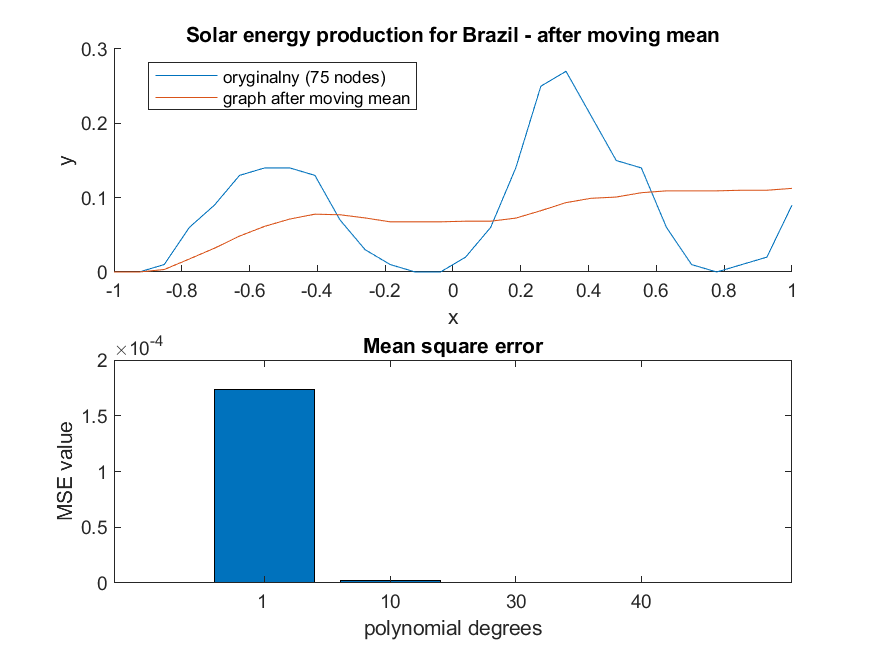
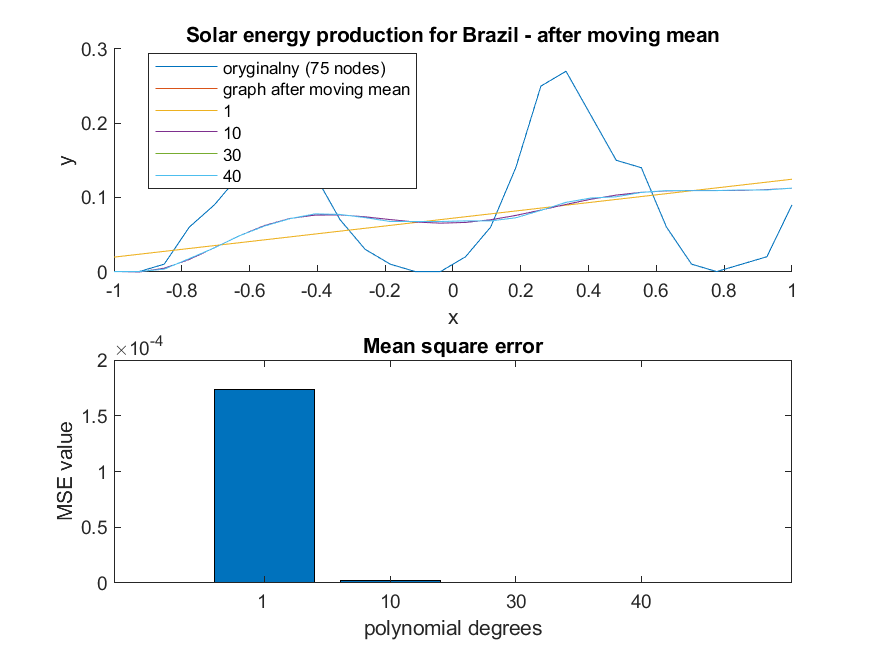
4/5 lab6 Numeryczne

diff --git a/Metody_Numeryczne_lab/lab6/zadanie5.m b/Metody_Numeryczne_lab/lab6/zadanie5.m
@@ -1,0 +1,128 @@
+function [country, source, degrees, x_coarse, x_fine, y_original, y_yearly, y_approximation, mse, msek] = zadanie5(energy)
+% Głównym celem tej funkcji jest wyznaczenie danych na potrzeby analizy dokładności aproksymacji cosinusowej.
+% 
+% energy - struktura danych wczytana z pliku energy.mat
+% country - [String] nazwa kraju
+% source  - [String] źródło energii
+% x_coarse - wartości x danych aproksymowanych
+% x_fine - wartości, w których wyznaczone zostaną wartości funkcji aproksymującej
+% y_original - dane wejściowe, czyli pomiary produkcji energii zawarte w wektorze energy.(country).(source).EnergyProduction
+% y_yearly - wektor danych rocznych
+% y_approximation - tablica komórkowa przechowująca wartości nmax funkcji aproksymujących dane roczne.
+%   - nmax = length(y_yearly)-1
+%   - y_approximation{i} stanowi aproksymację stopnia i
+%   - y_approximation{i} stanowi wartości funkcji aproksymującej w punktach x_fine
+% mse - wektor mający nmax wierszy: mse(i) zawiera wartość błędu średniokwadratowego obliczonego dla aproksymacji stopnia i.
+%   - mse liczony jest dla aproksymacji wyznaczonej dla wektora x_coarse
+% msek - wektor mający nmax wierszy: msek zawiera wartości błędów różnicowych zdefiniowanych w treści zadania 5
+%   - msek(i) porównuj aproksymacje wyznaczone dla i-tego oraz (i+1) stopnia wielomianu
+%   - msek liczony jest dla aproksymacji wyznaczonych dla wektora x_fine
+
+country = 'China';
+source = 'Wind';
+degrees = [1, 2, 3, 4];
+x_coarse = [];
+x_fine = [];
+y_original = [];
+y_yearly = [];
+y_approximation = [];
+mse = [];
+msek = [];
+
+% Sprawdzenie dostępności danych
+if isfield(energy, country) && isfield(energy.(country), source)
+    % Przygotowanie danych do aproksymacji
+    dates = energy.(country).(source).Dates;
+    y_original = energy.(country).(source).EnergyProduction;
+    y_original_mean = movmean(y_original, [11, 0]);
+
+    % Obliczenie danych rocznych
+    n_years = floor(length(y_original) / 12);
+    y_cut = y_original(end-12*n_years+1:end);
+    y4sum = reshape(y_cut, [12 n_years]);
+    y_yearly = sum(y4sum, 1)';
+
+    % Przygotowanie danych do aproksymacji
+    N = length(y_yearly);
+    P = (N-1)*8+1; % liczba wartości funkcji aproksymującej
+    x_coarse = linspace(0, 1, N)';
+    x_fine = linspace(0, 1, P)';
+
+    for i = 1:length(degrees)
+        X = dct2_custom(y_yearly, N);
+        y_approximation{i} = idct2_custom(X, degrees(i), N, P);
+        y_approximation_coarse = idct2_custom(X, degrees(i), N, N);
+        
+        squared_errors = (y_approximation_coarse - y_yearly).^2;
+        mse(i) = mean(squared_errors);
+        if i > 1
+            squared_errors = (y_last - y_approximation{i}).^2;
+            msek(i-1) = mean(squared_errors);
+        end    
+        y_last = y_approximation{i};
+    end
+    mse = mse';
+    msek = msek';
+else
+    disp(['Dane dla (country=', country, ') oraz (source=', source, ') nie są dostępne.']);
+end
+
+subplot(3, 1, 1);
+hold on;
+plot(x_coarse, y_yearly);
+
+for i = 1:length(degrees)
+    plot(x_fine, y_approximation{i});
+end
+title('');
+xlabel('x');
+ylabel('y');
+legend('original', '1', '2', '3', '4', 'Location', 'best');
+hold off
+
+subplot(3, 1, 2);
+semilogy(1:length(degrees), mse);
+title('Mean square error');  
+xlabel('polynomial degree');
+ylabel('MSE value');
+
+subplot(3, 1, 3);
+semilogy(1:length(msek), msek);
+title('Differential error');  
+xlabel('polynomial degree');
+ylabel('DE value');
+
+print -dpng zadanie5.png 
+end
+
+function X = dct2_custom(x, kmax)
+% Wyznacza kmax pierwszych współczynników DCT-2 dla wektora wejściowego x.
+    N = length(x);
+    X = zeros(kmax, 1);
+    c2 = sqrt(2/N);
+    c3 = pi/2/N;
+    nn = (1:N)';
+
+    X(1) = sqrt(1/N) * sum(x(nn));
+    for k = 2:kmax
+        X(k) = c2 * sum(x(nn) .* cos(c3 * (2*(nn-1)+1) * (k-1)));
+    end
+end
+
+function x = idct2_custom(X, kmax, N, P)
+% Wyznacza wartości aproksymacji cosinusowej x.
+% X - współczynniki DCT
+% kmax - liczba współczynników DCT zastosowanych do wyznaczenia wektora x
+% N - liczba danych dla których została wyznaczona macierz X
+% P - długość zwracanego wektora x (liczba wartości funkcji aproksymującej w przedziale [0,1])
+    x = zeros(P, 1);
+    kk = (2:kmax)';
+    c1 = sqrt(1/N);
+    c2 = sqrt(2/N);
+    c3 = pi*(N - 1)/(2*N*(P - 1));
+    c4 = -(pi*(N - P))/(2*N*(P - 1));
+
+    for n = 1:P
+        x(n) = c1 * X(1) + c2 * sum(X(kk) .* cos((c3*(2*(n-1)+1)+c4) * (kk-1)));
+    end
+end

diff --git a/Metody_Numeryczne_lab/lab6/zadanie4.m b/Metody_Numeryczne_lab/lab6/zadanie4.m
@@ -1,0 +1,118 @@
+function [country, source, degrees, x_coarse, x_fine, y_original, y_yearly, y_approximation, mse, msek] = zadanie4(energy)
+% Głównym celem tej funkcji jest wyznaczenie danych na potrzeby analizy dokładności aproksymacji wielomianowej.
+% 
+% energy - struktura danych wczytana z pliku energy.mat
+% country - [String] nazwa kraju
+% source  - [String] źródło energii
+% x_coarse - wartości x danych aproksymowanych
+% x_fine - wartości, w których wyznaczone zostaną wartości funkcji aproksymującej
+% y_original - dane wejściowe, czyli pomiary produkcji energii zawarte w wektorze energy.(country).(source).EnergyProduction
+% y_yearly - wektor danych rocznych
+% y_approximation - tablica komórkowa przechowująca wartości nmax funkcji aproksymujących dane roczne.
+%   - nmax = length(y_yearly)-1
+%   - y_approximation{1,i} stanowi aproksymację stopnia i
+%   - y_approximation{1,i} stanowi wartości funkcji aproksymującej w punktach x_fine
+% mse - wektor mający nmax wierszy: mse(i) zawiera wartość błędu średniokwadratowego obliczonego dla aproksymacji stopnia i.
+%   - mse liczony jest dla aproksymacji wyznaczonej dla wektora x_coarse
+% msek - wektor mający (nmax-1) wierszy: msek zawiera wartości błędów różnicowych zdefiniowanych w treści zadania 4
+%   - msek(i) porównuj aproksymacje wyznaczone dla i-tego oraz (i+1) stopnia wielomianu
+%   - msek liczony jest dla aproksymacji wyznaczonych dla wektora x_fine
+
+country = 'Brazil';
+source = 'Wind';
+degrees = [1,2,3,4];
+x_coarse = [];
+x_fine = [];
+y_original = [];
+y_yearly = [];
+y_approximation = [];
+mse = [];
+msek = [];
+
+% Sprawdzenie dostępności danych
+if isfield(energy, country) && isfield(energy.(country), source)
+    % Przygotowanie danych do aproksymacji
+    dates = energy.(country).(source).Dates;
+    y_original = energy.(country).(source).EnergyProduction;
+
+    % Obliczenie danych rocznych
+    n_years = floor(length(y_original) / 12);
+    y_cut = y_original(end-12*n_years+1:end);
+    y4sum = reshape(y_cut, [12 n_years]);
+    y_yearly = sum(y4sum,1)';
+
+    N = length(y_yearly);
+    P = (N-1)*10+1;
+    x_coarse = linspace(-1, 1, N)';
+    x_fine = linspace(-1, 1, P)';
+
+    % Pętla po wielomianach różnych stopni
+    for i = 1:N-1
+        p = my_polyfit(x_coarse , y_yearly , i);
+        y_approximation{i} = polyval(p, x_fine);
+        y_approximation_coarse =  polyval(p, x_coarse);
+
+        squared_errors = (y_approximation_coarse - y_yearly).^2;
+        mse(i) = mean(squared_errors);
+        if(i>1)
+            squared_errors = (y_last - y_approximation{i}).^2;
+            msek(i-1) = mean(squared_errors);
+        end    
+        y_last = y_approximation{i};
+    end
+   mse = mse';
+   msek = msek';
+
+else
+    disp(['Dane dla (country=', country, ') oraz (source=', source, ') nie są dostępne.']);
+end
+
+subplot(3,1,1);
+hold on;
+plot( x_coarse, y_yearly );
+
+for i = 1:length(degrees)
+    plot(x_fine, y_approximation{i}); 
+end
+ title('');
+ xlabel('x');
+ ylabel('y');
+ legend('original','1', '2', '3', '4', 'Location', 'best');
+ hold off
+
+subplot(3,1,2);
+plot(linspace(1, N-1,N-1), mse);
+set(gca, 'YScale', 'log');
+title('Mean square error');  
+xlabel('polynomial degree');
+ylabel('MSE value');
+
+subplot(3,1,3);
+plot(linspace(1, N-2,N-2),  msek);
+set(gca, 'YScale', 'log');
+title('Differential error');  
+xlabel('polynomial degree');
+ylabel('DE value');
+
+print -dpng zadanie4.png 
+
+
+end
+
+function p = my_polyfit(x, y, deg)
+    V = ones(length(x), deg+1);
+    for i=1:length(x)
+        for j=1:deg+1
+            if j == deg+1
+                V(i,j) = 1;
+                continue;
+            end
+            V(i,j) = power(x(i), deg+1-j);
+        end
+    end
+    
+    A = V'*V;
+   b = V'*y;
+   p = A\b
+
+end

diff --git a/Metody_Numeryczne_lab/lab6/zadanie3.m b/Metody_Numeryczne_lab/lab6/zadanie3.m
@@ -47,17 +47,57 @@ if isfield(energy, country) && isfield(energy.(country), source)
 
     % Pętla po wielomianach różnych stopni
     for i = 1:length(degrees)
+        p = my_polyfit(x_coarse , y_yearly , degrees(i));
+        y_approximation{i} = polyval(p, x_fine);
+        y_approximation_coarse =  polyval(p, x_coarse);
+
+        squared_errors = (y_approximation_coarse - y_yearly).^2;
+        mse(i) = mean(squared_errors);
     end
 
 else
     disp(['Dane dla (country=', country, ') oraz (source=', source, ') nie są dostępne.']);
 end
 
+subplot(2,1,1);
+hold on;
+plot( x_coarse, y_yearly );
+for i = 1:length(degrees)
+    plot(x_fine, y_approximation{i});
 end
 
-function p = my_polyfit(x, y, deg)
-    % creating Vandermonde matrix
-    V = ones(length(x), deg+1);
-    V(:, 1) = ones(length(x), 1);
-    for i = 
+ title('Coal energy production for India');
+ xlabel('x');
+ ylabel('y');
+ legend('original','1 nodes', '2 nodes', '3 nodes', '4 nodes', 'Location', 'best');
+ hold off
+
+subplot(2,1,2);
+mse = mse';
+bar(mse); 
+title('Mean square error');  
+set(gca, 'XTickLabel', degrees);
+xlabel('polynomial degrees'); 
+ylabel('MSE value');
+print -dpng zadanie3.png
+
 end
+
+
+function p = my_polyfit(x, y, deg)
+    V = ones(length(x), deg+1);
+    for i=1:length(x)
+        for j=1:deg+1
+            if j == deg+1
+                V(i,j) = 1;
+                continue;
+            end
+            V(i,j) = power(x(i), deg+1-j);
+        end
+    end
+    
+    A = V'*V;
+   b = V'*y;
+   p = A\b
+end
+

diff --git a/Metody_Numeryczne_lab/lab6/main.m b/Metody_Numeryczne_lab/lab6/main.m
@@ -1,5 +1,10 @@
 load('energy.mat');
 close all;
-[country, source, degrees, y_original, y_approximation, mse] = zadanie1(energy);
+%[country, source, degrees, y_original, y_approximation, mse] = zadanie1(energy);
 close all;
-[country, source, degrees, y_original, y_movmean, y_approximation, mse] = zadanie2(energy);
+%[country, source, degrees, y_original, y_movmean, y_approximation, mse] = zadanie2(energy);
+close all;
+%[country, source, degrees, x_coarse, x_fine, y_original, y_yearly, y_approximation, mse] = zadanie3(energy);
+close all;
+%[country, source, degrees, x_coarse, x_fine, y_original, y_yearly, y_approximation, mse, msek] = zadanie4(energy);
+[country, source, degrees, x_coarse, x_fine, y_original, y_yearly, y_approximation, mse, msek] = zadanie5(energy);
